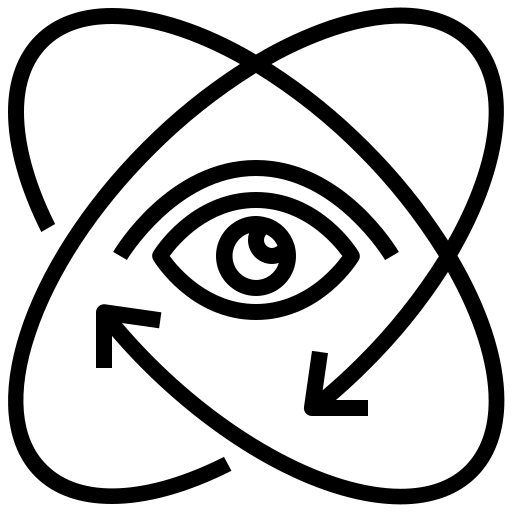
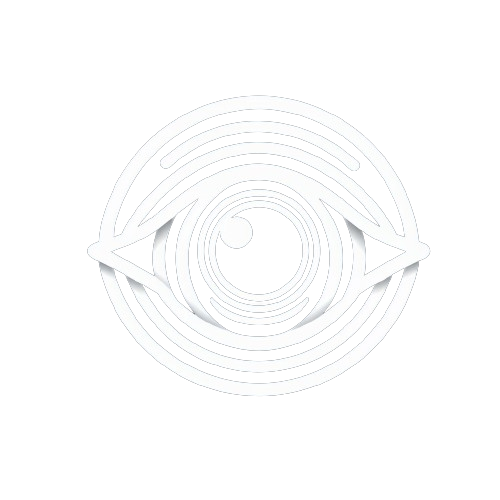
feat: updated landing page

Changed region(s): [[0.0, 0.0, 0.99, 0.99], [0.45, 0.69, 0.48, 0.72]]

diff --git a/visionify-frontend/src/components/ImageUploadComponent.jsx b/visionify-frontend/src/components/ImageUploadComponent.jsx
@@ -1,21 +1,13 @@
 import React, { useState } from "react";
 import axios from "axios";
-import { styled } from '@mui/material/styles';
+
 import Button from "@mui/material/Button";
 import CloudUploadIcon from '@mui/icons-material/CloudUpload';
 import LinearProgress from '@mui/material/LinearProgress';
+import Typography from '@mui/material/Typography';
 
-const VisuallyHiddenInput = styled('input')({
-  clip: 'rect(0 0 0 0)',
-  clipPath: 'inset(50%)',
-  height: 1,
-  overflow: 'hidden',
-  position: 'absolute',
-  bottom: 0,
-  left: 0,
-  whiteSpace: 'nowrap',
-  width: 1,
-});
+
+
 const ImageUpload = () => {
   const [file, setFile] = useState(null);
   const [prediction, setPrediction] = useState(null);
@@ -25,13 +17,12 @@ const ImageUpload = () => {
     setFile(event.target.files[0]);
   };
 
-  const handleUploadAndPredict = async (event) => {
-    event.preventDefault();
+  const handleUploadAndPredict = async () => {
     try {
       setLoading(true);
       const formData = new FormData();
       formData.append("file", file);
-      const response = await axios.post("http://127.0.0.1:8000/api/v1/auth/token/", formData, {
+      const response = await axios.post("http://127.0.0.1:8000/", formData, {
         headers: {
           "Content-Type": "multipart/form-data",
         },
@@ -47,14 +38,26 @@ const ImageUpload = () => {
 
   return (
     <div style={{ display: "flex", flexDirection: "column", alignItems: "center", padding: "16px" }}>
-    
-      <Button onChange={handleFileChange} onSubmit={handleUploadAndPredict} component="label" variant="contained" startIcon={<CloudUploadIcon />}>
-        Upload file
-        <VisuallyHiddenInput type="file" />
-      </Button>
+      <input
+        accept="image/*"
+        style={{ display: 'none' }}
+        id="contained-button-file"
+        multiple
+        type="file"
+        onChange={handleFileChange}
+      />
+      <label htmlFor="contained-button-file">
+        <Button
+          variant="contained"
+          component="span"
+          startIcon={<CloudUploadIcon />}
+        >
+          Upload File
+        </Button>
+      </label>
 
       {loading && <LinearProgress style={{ width: "100%", marginTop: "16px" }} />}
-      {prediction !== null && !loading && <p>Predicted Class: {prediction}</p>}
+      {prediction !== null && !loading && <Typography variant="body1">Predicted Class: {prediction}</Typography>}
     </div>
   );
 };

diff --git a/visionify-frontend/src/pages/LandingPage.jsx b/visionify-frontend/src/pages/LandingPage.jsx
@@ -1,12 +1,16 @@
-// eslint-disable-next-line no-unused-vars
-import React from 'react';
-import ImageUpload from '../components/ImageUploadComponent';
+import React from "react";
+import { styled } from "@mui/material/styles";
+import { Container, Typography } from "@mui/material";
+
+
+
 const LandingPage = () => {
   return (
-    <>
-      <div>Landing Page</div>
-      <ImageUpload />
-    </>
+    <section className="hero">
+      <div className="content">
+        <Typography variant="h1">Visionify</Typography>
+      </div>
+    </section>
   );
 };
 

diff --git a/visionify-frontend/src/components/NavBarComponent.jsx b/visionify-frontend/src/components/NavBarComponent.jsx
@@ -12,7 +12,7 @@ const NavBarComponent = () => {
             <Toolbar>
                 <Box 
                     component="img"
-                    sx={{ height: 30, width: 30, marginRight:2 }}
+                    sx={{ height: 50, width: 50, marginRight:2 }}
                     src={Logo}
                     alt="Visionify Logo"
 

diff --git a/visionify-frontend/src/index.css b/visionify-frontend/src/index.css
@@ -1,0 +1,17 @@
+.hero{
+    display:flex;
+    height:100vh;
+    background-color: black;
+}
+
+.content{
+    display: flex;
+    flex-direction: column;
+    max-width: 1200px;
+    width: 100%;
+    margin: 0 auto;
+    justify-content: center;
+    align-items: center;
+    text-align: center;
+    color: white;
+}
